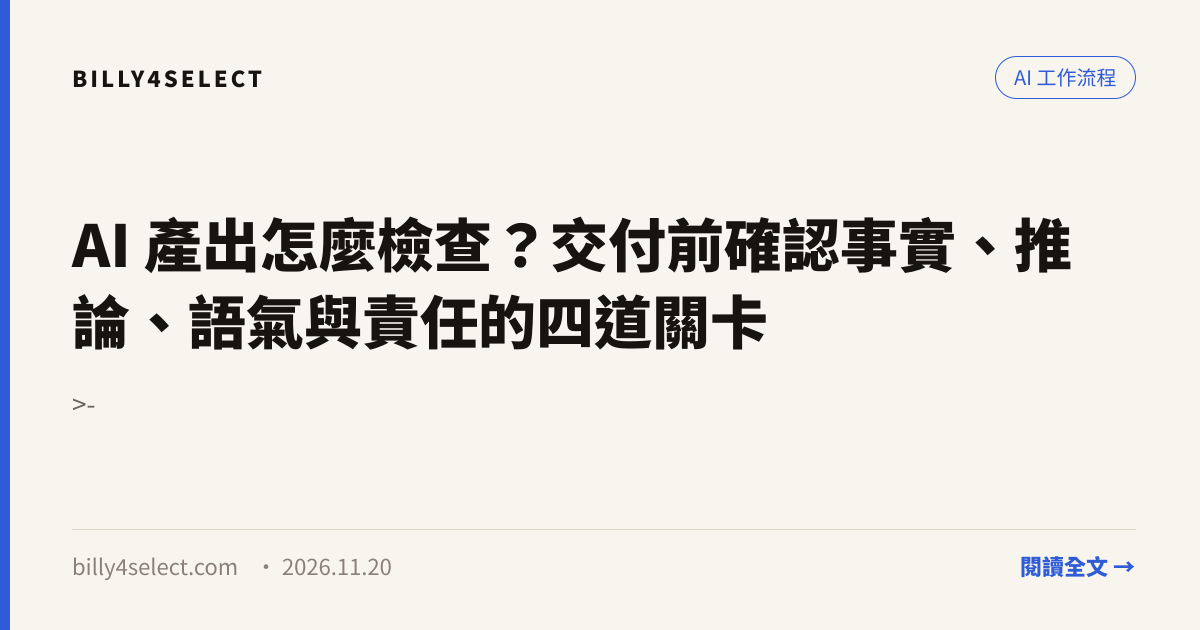
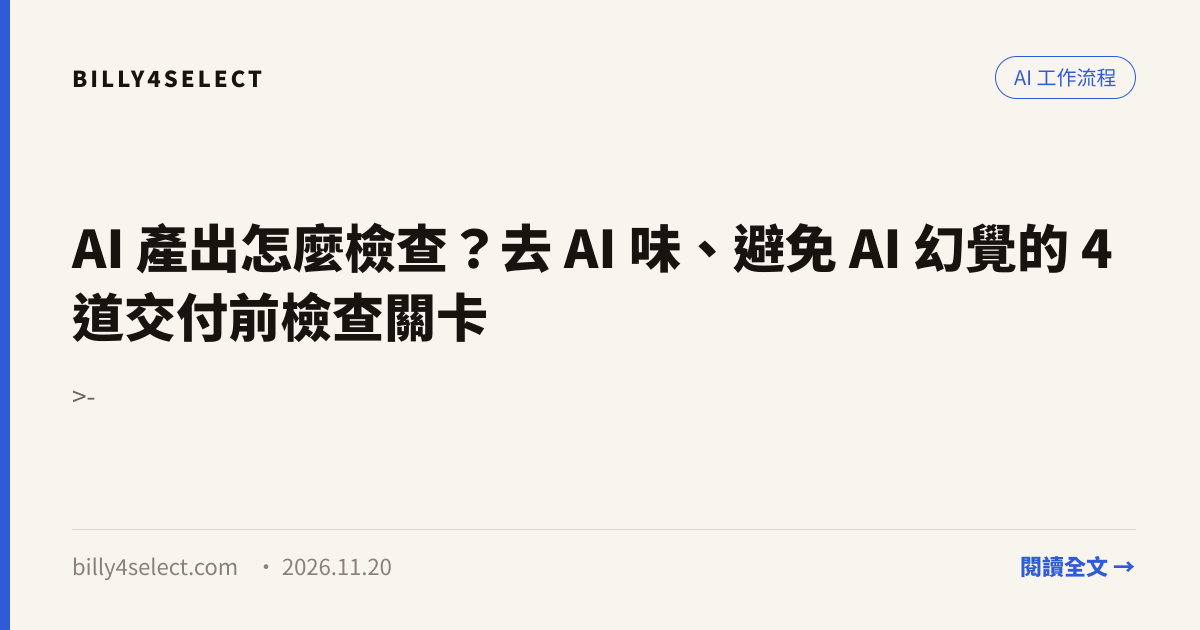
SEO：補齊最後 1 篇文章、3 個教學專題首頁與 8 個主題總覽頁標題（含修正 /marketing/ 摘要）

Changed region(s): [[0.0617, 0.3317, 0.925, 0.573], [0.0617, 0.6333, 0.0925, 0.6635]]

diff --git a/public/ai-work-team/index.html b/public/ai-work-team/index.html
@@ -3,14 +3,14 @@
 <head>
 <meta charset="UTF-8">
 <meta name="viewport" content="width=device-width, initial-scale=1">
-<title>AI 工作團隊怎麼建立？免費工具、角色與流程入門</title>
+<title>AI 工作流程教學（2026）：用免費 AI 工具打造工作團隊與 18 張任務卡</title>
 <meta name="description" content="從免費 AI 工具開始，建立 AI 員工、角色分工與人工交接流程。6 個主題、6 條工作流程、18 張任務卡，不需要寫程式或串接 API。">
 <meta name="robots" content="index,follow">
 <link rel="canonical" href="https://www.billy4select.com/ai-work-team/">
 <meta property="og:type" content="website">
 <meta property="og:site_name" content="打造 AI 工作團隊">
 <meta property="og:locale" content="zh_TW">
-<meta property="og:title" content="AI 工作團隊怎麼建立？免費工具、角色與流程入門">
+<meta property="og:title" content="AI 工作流程教學（2026）：用免費 AI 工具打造工作團隊與 18 張任務卡">
 <meta property="og:description" content="從免費 AI 工具開始，建立 AI 員工、角色分工與人工交接流程。6 個主題、6 條工作流程、18 張任務卡，不需要寫程式或串接 API。">
 <meta property="og:url" content="https://www.billy4select.com/ai-work-team/">
 <meta property="og:image" content="https://www.billy4select.com/ai-work-team/assets/og-cover.jpg">

diff --git a/src/content/blog/ai-output-quality-check.md b/src/content/blog/ai-output-quality-check.md
@@ -1,5 +1,5 @@
 ---
-title: AI 產出怎麼檢查？交付前確認事實、推論、語氣與責任的四道關卡
+title: "AI 產出怎麼檢查？去 AI 味、避免 AI 幻覺的 4 道交付前檢查關卡"
 description: >-
   AI 寫出來的報告看起來很完整，交出去卻常被主管問倒或一眼看出機器味？這篇整理交付前四道審核關卡、三個去 AI 味編輯動作與主管準備週會報告的實戰流程，趕時間也能守住專業信用。
 publishedDate: 2026-11-20T09:00:00Z
